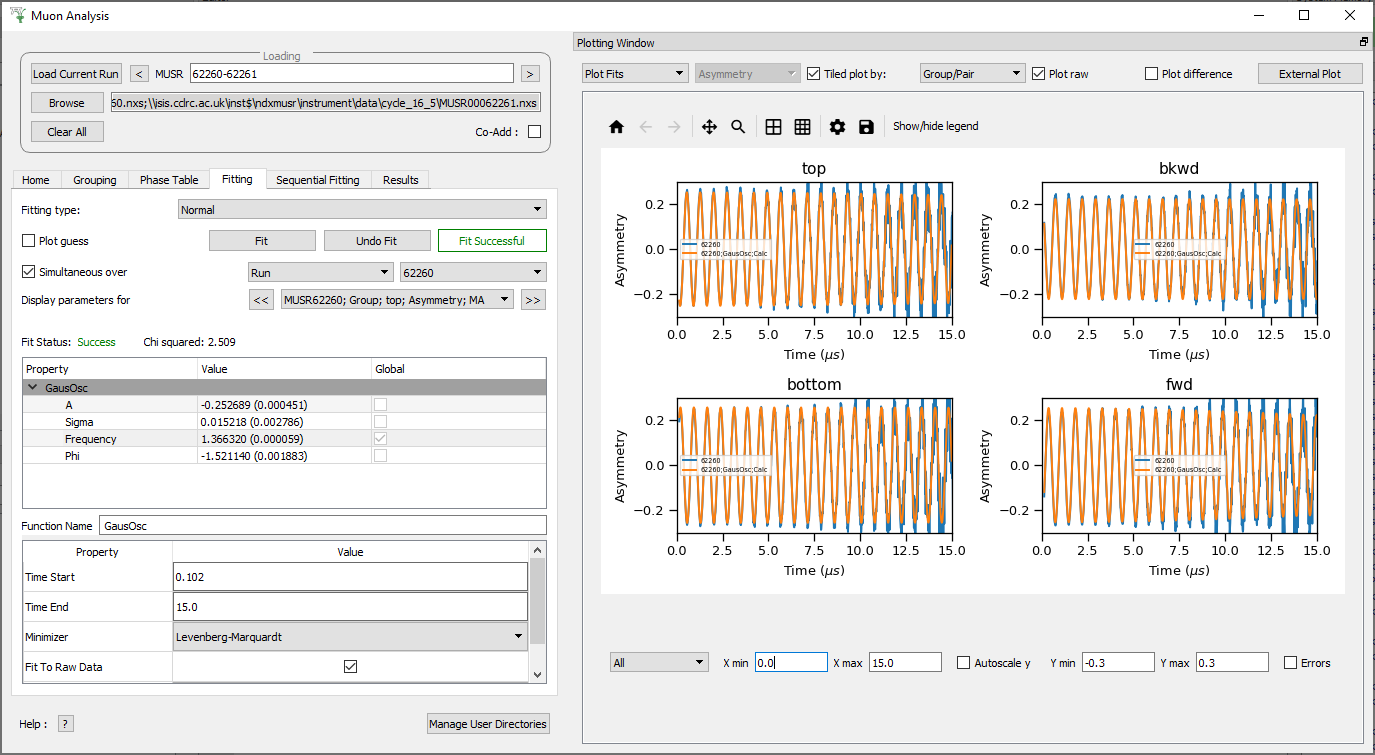
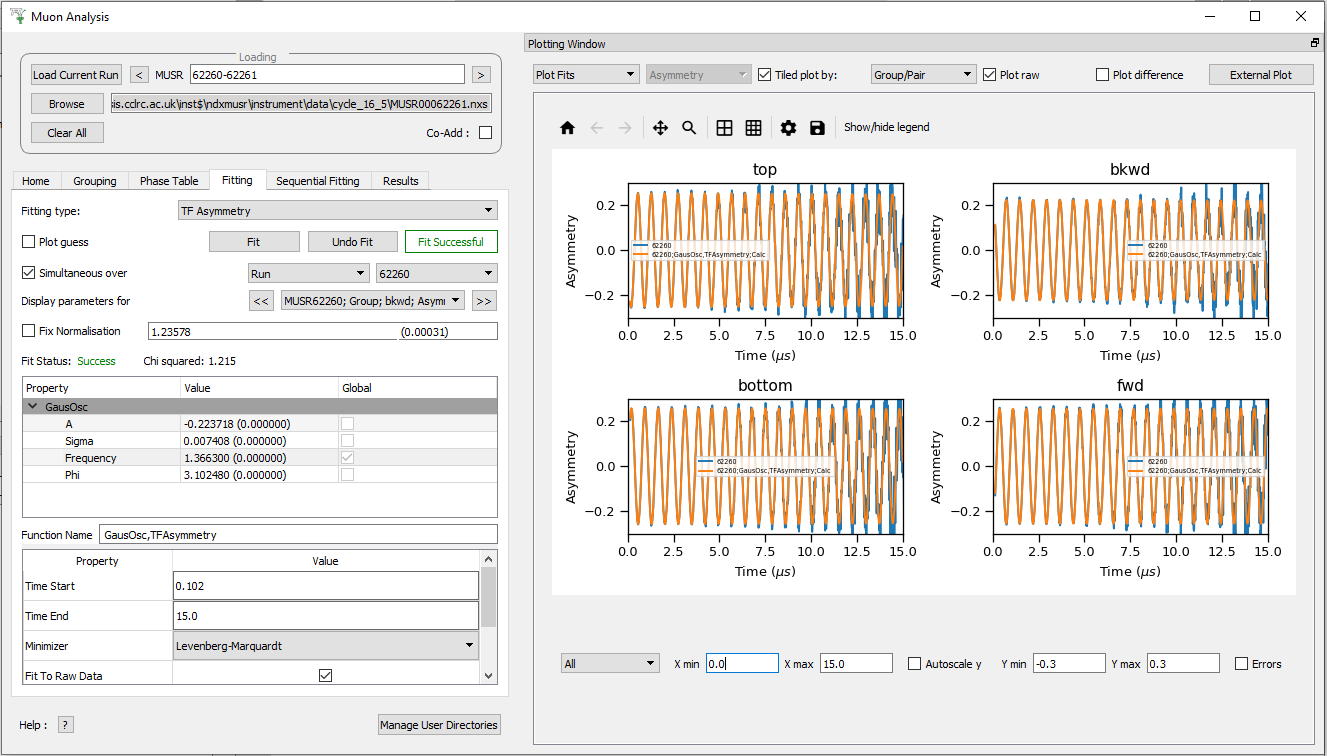
Review changes.

diff --git a/docs/source/release/v6.1.0/muon.rst b/docs/source/release/v6.1.0/muon.rst
@@ -22,7 +22,8 @@ New Features
 Improvements
 ############
 
-- The muon fitting tab has been redesigned allowing it to be simpler to use and making it more stable.
+- The muon fitting tab has been redesigned making it easier to use and more stable. TF Asymmetry fitting has seen
+  the largest improvement in usability as the fit function is now displayed in a much simpler form.
 
 .. figure:: ../../images/MuonFittingTabRedesign.PNG
    :class: screenshot
